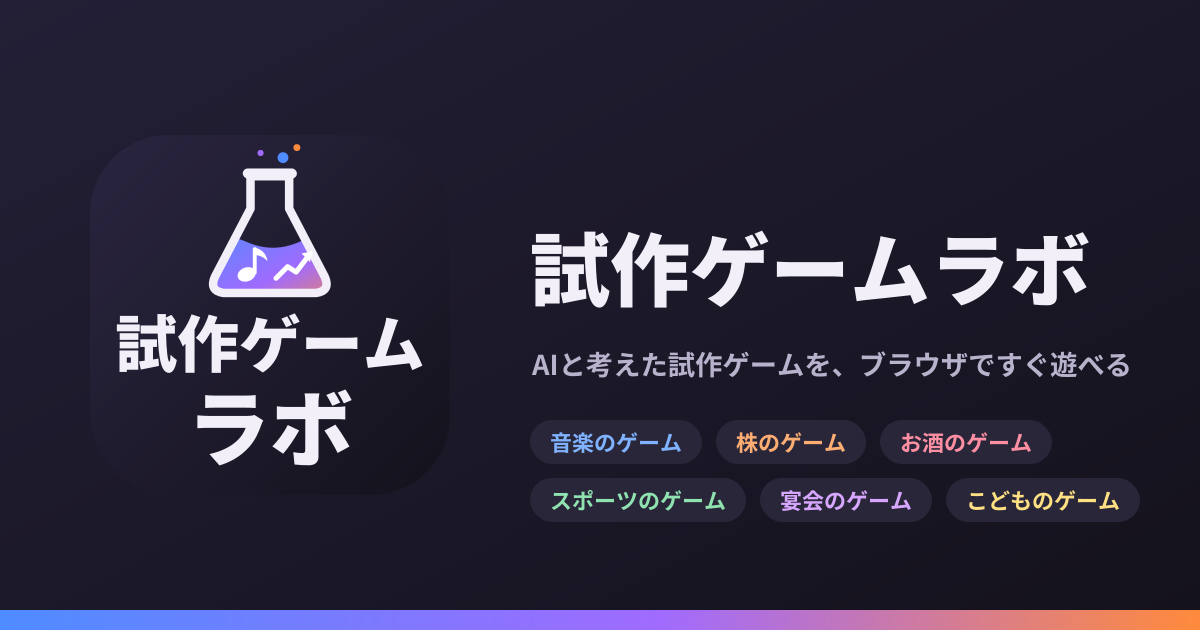
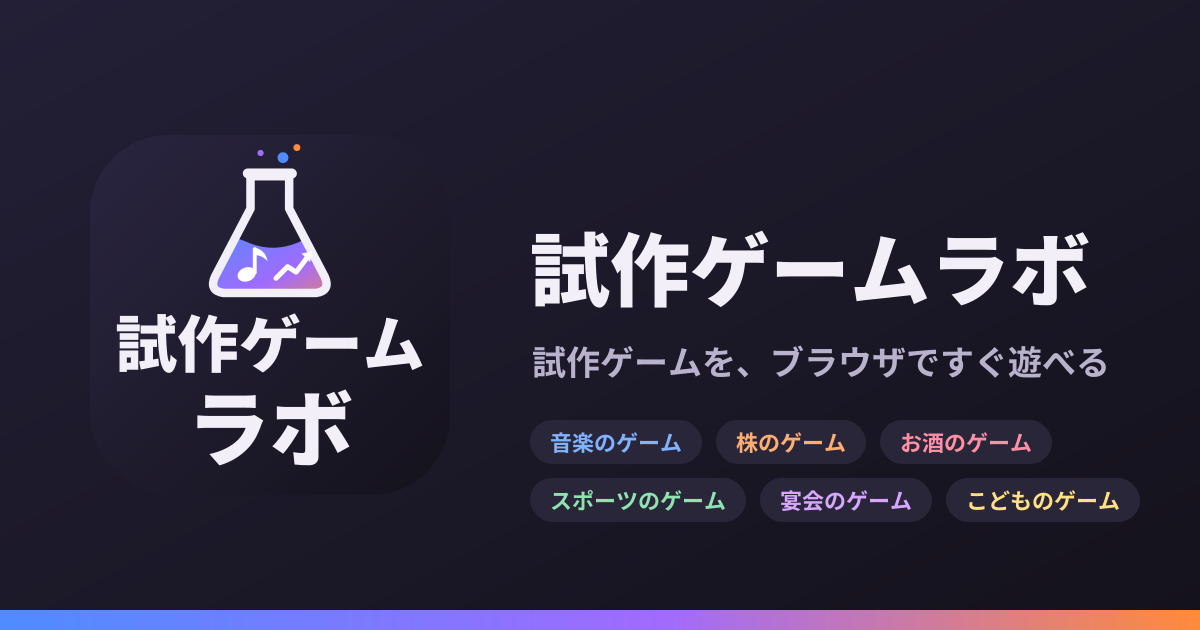
ラボ: 「AIと考えた試作ゲーム」の文言をホーム・各ゲーム・プレビュー画像からすべて削除
Claude-Session: https://claude.ai/code/session_01VTGLw7FeurXrYfLWP1DaSH

Changed region(s): [[0.4317, 0.5429, 0.9558, 0.6032]]

diff --git a/lab/index.html b/lab/index.html
@@ -8,7 +8,7 @@
 <meta property="og:type" content="website">
 <meta property="og:site_name" content="試作ゲームラボ">
 <meta property="og:title" content="試作ゲームラボ">
-<meta property="og:description" content="AIと考えた試作ゲームを、ブラウザですぐ遊べる。音楽のゲームと株のゲーム。">
+<meta property="og:description" content="試作ゲームを、ブラウザですぐ遊べる。">
 <meta property="og:url" content="https://game-lab-oj9t.onrender.com/">
 <meta property="og:image" content="https://game-lab-oj9t.onrender.com/og.png">
 <meta property="og:image:width" content="1200">
@@ -16,7 +16,7 @@
 <meta name="twitter:card" content="summary_large_image">
 <link rel="icon" href="icon.svg" type="image/svg+xml">
 <link rel="apple-touch-icon" href="apple-touch-icon.png">
-<meta name="description" content="AIと考えた試作ゲームを、ブラウザですぐ遊べる。音楽のゲームと株のゲーム。">
+<meta name="description" content="試作ゲームを、ブラウザですぐ遊べる。">
 <link rel="preconnect" href="https://fonts.googleapis.com">
 <link href="https://fonts.googleapis.com/css2?family=M+PLUS+Rounded+1c:wght@500;800&display=swap" rel="stylesheet">
 <style>
@@ -194,12 +194,12 @@ const SOON={name:'次の試作を準備中…',icon:'🛠',color:'#2a2639',de
 
 // カテゴリ（表示順）。新しいカテゴリはここに追加する
 const CATS=[
-  {id:'音楽',label:'音楽のゲーム',icon:'🎵',note:'AIと考えた試作ゲーム'},
-  {id:'株',label:'株のゲーム',icon:'📈',note:'AIと考えた試作ゲーム'},
-  {id:'お酒',label:'お酒のゲーム',icon:'🍶',note:'AIと考えた試作ゲーム（飲みの席で遊べるパーティー系）'},
-  {id:'スポーツ',label:'スポーツのゲーム',icon:'⚾',note:'AIと考えた試作ゲーム'},
-  {id:'宴会',label:'宴会のゲーム',icon:'🎉',note:'AIと考えた試作ゲーム（忘年会など大人数で）'},
-  {id:'こども',label:'こどものゲーム',icon:'🧸',note:'AIと考えた試作ゲーム（小学生向け）'},
+  {id:'音楽',label:'音楽のゲーム',icon:'🎵'},
+  {id:'株',label:'株のゲーム',icon:'📈'},
+  {id:'お酒',label:'お酒のゲーム',icon:'🍶',note:'飲みの席で遊べるパーティー系'},
+  {id:'スポーツ',label:'スポーツのゲーム',icon:'⚾'},
+  {id:'宴会',label:'宴会のゲーム',icon:'🎉',note:'忘年会など大人数で'},
+  {id:'こども',label:'こどものゲーム',icon:'🧸',note:'小学生向け'},
 ];
 let cur='すべて';
 // 遊んだ記録（この端末のブラウザだけに保存）

diff --git a/lab/pennant-owners/index.html b/lab/pennant-owners/index.html
@@ -250,7 +250,7 @@ function topbar(){
 
 function render(){
   if(!S){
-    $app.innerHTML=`<div class="title"><span class="badge">AIと考えた試作ゲーム</span><h1 style="margin-top:12px">ペナント・オーナーズ</h1>
+    $app.innerHTML=`<div class="title"><h1 style="margin-top:12px">ペナント・オーナーズ</h1>
     <div class="sub">ドラフトで選手を取り合い、3試合のシリーズへ。<br>最終回は「直球か、変化球か」。</div></div>
     <div class="panel"><button class="btn wide" onclick="newGame()">ドラフト会議をはじめる</button></div>${rules(true)}${BACK}`;return;
   }

diff --git a/lab/stadium-keiei/index.html b/lab/stadium-keiei/index.html
@@ -81,7 +81,7 @@ td,th{border-bottom:1px solid var(--line);padding:6px;text-align:center}
 <p class="back"><a href="../">← 試作ゲームラボに戻る</a> ・ スタジアム経営 v0.2</p>
 <header>
   <h1>⚾ スタジアム経営</h1>
-  <p>AIと考えた試作ゲーム ｜ 球場の売店とイベントで、9試合でいちばん稼いだオーナーの勝ち</p>
+  <p>球場の売店とイベントで、9試合でいちばん稼いだオーナーの勝ち</p>
   <div class="inning" id="inning"></div>
 </header>
 

diff --git a/lab/draft-kaigi/index.html b/lab/draft-kaigi/index.html
@@ -92,7 +92,7 @@
 <body>
 <div class="wrap">
   <header>
-    <h1>ドラフト会議<small>AIと考えた試作ゲーム ／ 野球のゲーム</small></h1>
+    <h1>ドラフト会議<small>野球のゲーム</small></h1>
     <div class="round" id="round"></div>
   </header>
   <div id="main"></div>

diff --git a/lab/seeno-doubutsu/index.html b/lab/seeno-doubutsu/index.html
@@ -92,7 +92,7 @@
 <body>
 <div class="wrap">
   <h1>せーの！最強どうぶつ</h1>
-  <span class="tag">AIと考えた試作ゲーム ・ v0.1</span>
+  <span class="tag">v0.1</span>
 
   <!-- タイトル -->
   <section id="title">

diff --git a/tools/make_og.py b/tools/make_og.py
@@ -45,7 +45,7 @@ def main():
     inner = icon.split('viewBox="0 0 512 512">', 1)[1].rsplit("</svg>", 1)[0]
     inner = inner.replace('id="bg"', 'id="ibg"').replace("url(#bg)", "url(#ibg)")
     w1, c1 = text_path(black, "試作ゲームラボ")
-    w2, c2 = text_path(bold, "AIと考えた試作ゲームを、ブラウザですぐ遊べる")
+    w2, c2 = text_path(bold, "試作ゲームを、ブラウザですぐ遊べる")
     s1, s2 = 560 / w1, min(600 / w2, 0.034)
     parts = [
         '<svg xmlns="http://www.w3.org/2000/svg" viewBox="0 0 1200 630" width="1200" height="630">',

diff --git a/CLAUDE.md b/CLAUDE.md
@@ -45,5 +45,5 @@
 5. コミットメッセージは日本語で「ゲーム名: 変更内容」の形にする
 
 ## 文言のルール
-- カテゴリの説明は「AIと考えた試作ゲーム」（「オリジナル」「AIが考えた」ではない）
+- 「AIと考えた試作ゲーム」「AIが考えた」「オリジナル」などの説明文は、ホームにも各ゲームにも入れない
 - ホームに「感想を送ってください」の類の呼びかけは入れない
